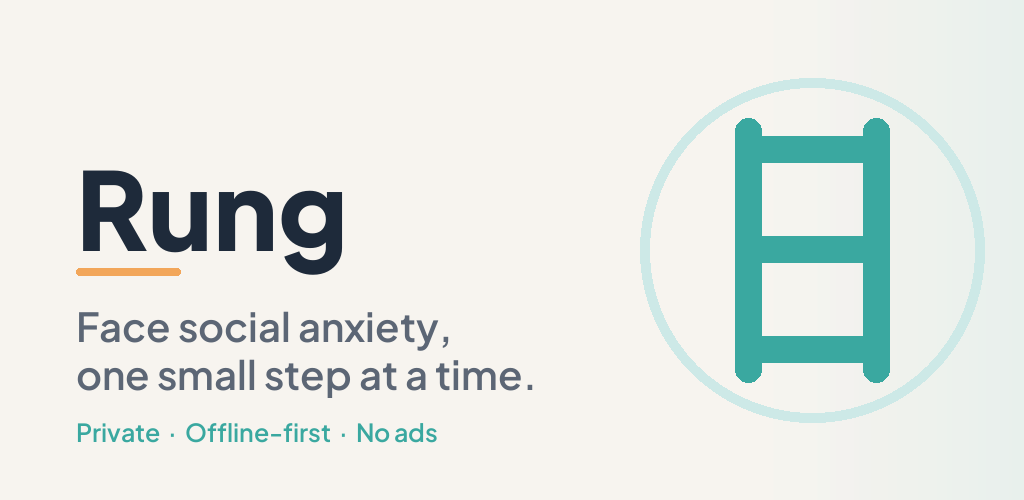
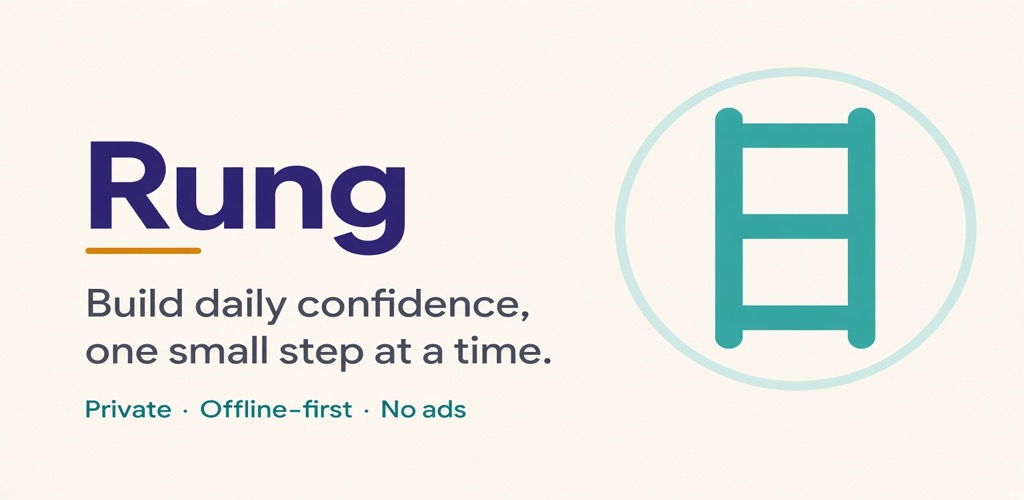
docs

Changed region(s): [[0.0625, 0.27, 0.5312, 0.9], [0.5938, 0.12, 0.9688, 0.87]]

diff --git a/docs/privacy.html b/docs/privacy.html
@@ -25,7 +25,7 @@ nav a{margin-right:16px}
 <h2>What stays only on your device</h2>
 <p>Your reflection notes and prediction notes — the private things you write about how a moment felt — are stored only in the app on your device. They are never uploaded to our servers.</p>
 <h2>What we store in the cloud</h2>
-<p>When you create an account we store: your email address (for sign-in; your password is encrypted and we never see it), an optional display name and bio, and your privacy-lock setting. To run the community (“pods”) we store the messages you post and any blocks or reports you make. To keep your progress safe across devices we back up numbers only — your streak, challenges completed, and anxiety ratings (predicted vs actual) — plus any custom steps you create. Note text is never included.</p>
+<p>When you create an account we store: your email address (for sign-in; your password is encrypted and we never see it), an optional display name and bio, and your privacy-lock setting. To run the community (“pods”) we store the messages you post and any blocks or reports you make. To keep your progress safe across devices we back up numbers only — your streak, challenges completed, and self-reported intensity scores (expected vs actual) — plus any custom steps you create. Note text is never included.</p>
 <h2>Analytics</h2>
 <p>We use privacy-respecting product analytics (PostHog) to understand which features help — anonymous usage events like “opened a screen” or “completed a step”, never the content of your notes or messages. It is off by default and only runs if you turn it on in Settings; you can turn it off again at any time.</p>
 <h2>How we use your information</h2>

diff --git a/docs/delete-account.html b/docs/delete-account.html
@@ -49,7 +49,7 @@ nav a{margin-right:16px}
 <tr><td>Display name, bio, profile settings</td><td>Deleted immediately</td></tr>
 <tr><td>Messages you posted in support pods</td><td>Deleted immediately</td></tr>
 <tr><td>Pod memberships, blocks and reports you made</td><td>Deleted immediately</td></tr>
-<tr><td>Backed-up progress (streak, steps completed, anxiety ratings, check-ins, custom steps)</td><td>Deleted immediately</td></tr>
+<tr><td>Backed-up progress (streak, steps completed, intensity scores, check-ins, custom steps)</td><td>Deleted immediately</td></tr>
 <tr><td>Push notification tokens for your devices</td><td>Deleted immediately</td></tr>
 <tr><td>Reflection and prediction notes</td><td>Never stored on our servers — removed with the app when you uninstall it</td></tr>
 </table>

diff --git a/docs/index.html b/docs/index.html
@@ -20,7 +20,7 @@ nav a{margin-right:16px}
 </style></head><body><div class="wrap">
 <header><span class="dot"></span><b>Rung</b></header>
 <h1>Legal</h1>
-<p class="intro">Rung is a calm, offline-first practice app for social anxiety.</p>
+<p class="intro">Rung is a calm, offline-first practice app for building daily confidence through small steps.</p>
 <nav><a href="privacy.html">Privacy Policy</a><a href="terms.html">Terms of Service</a><a href="delete-account.html">Delete Account</a></nav>
 <p class="foot">Questions? <a href="mailto:alijutt12208025@gmail.com">alijutt12208025@gmail.com</a></p>
 </div></body></html>
